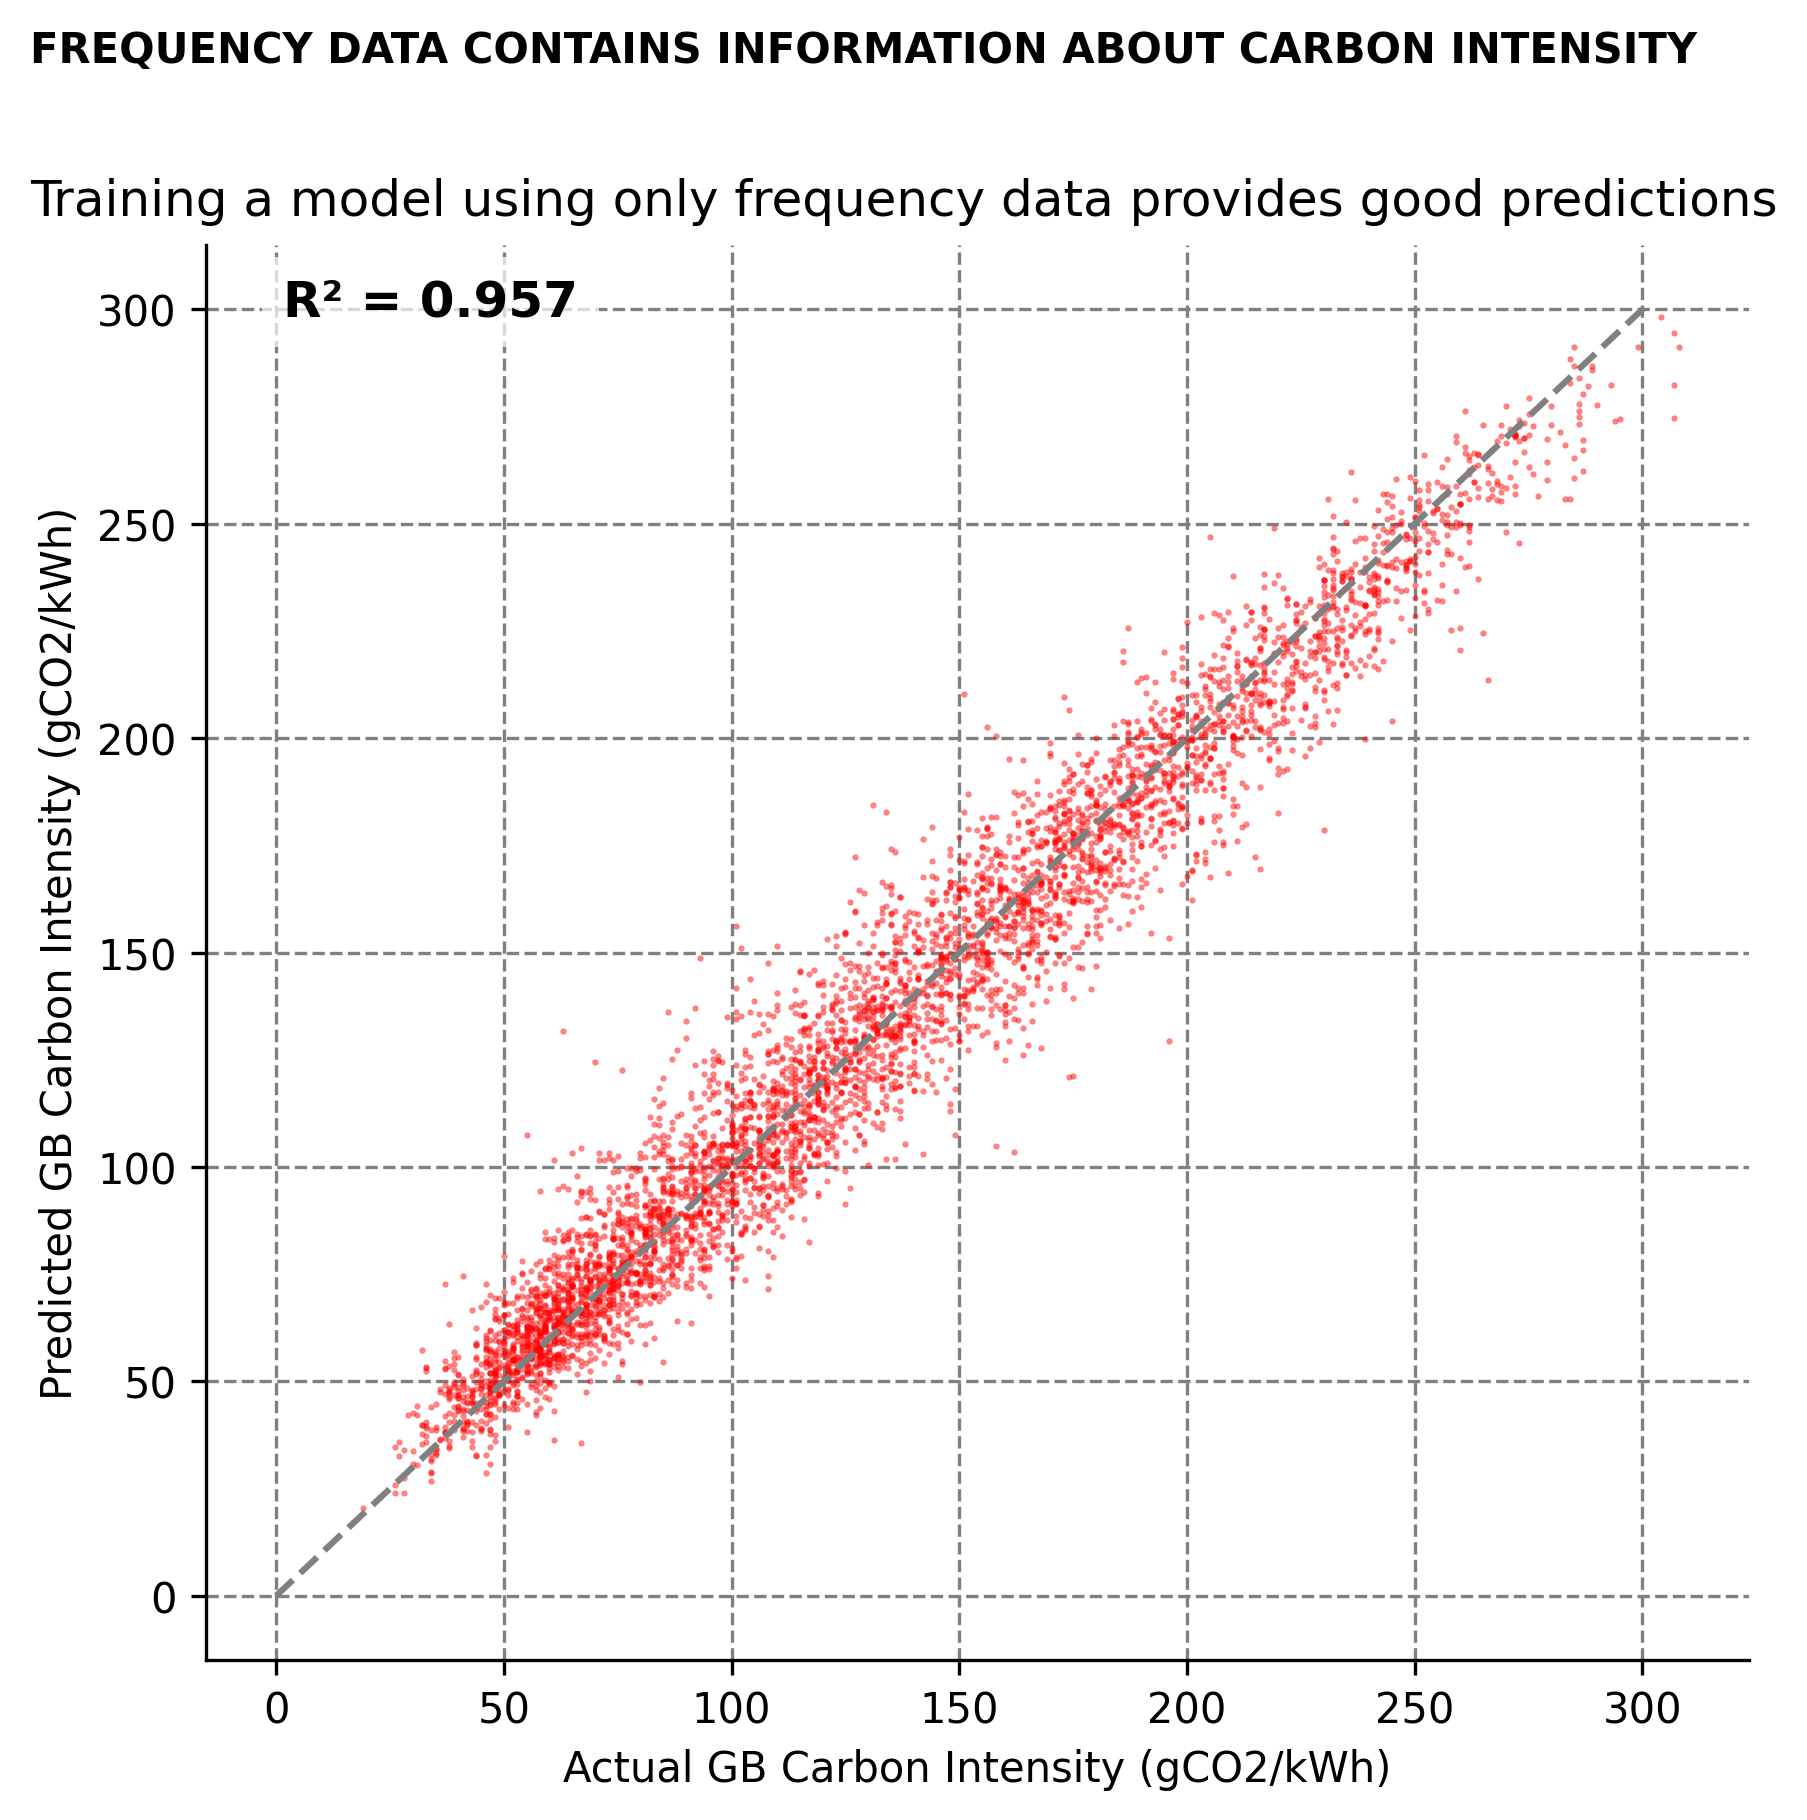
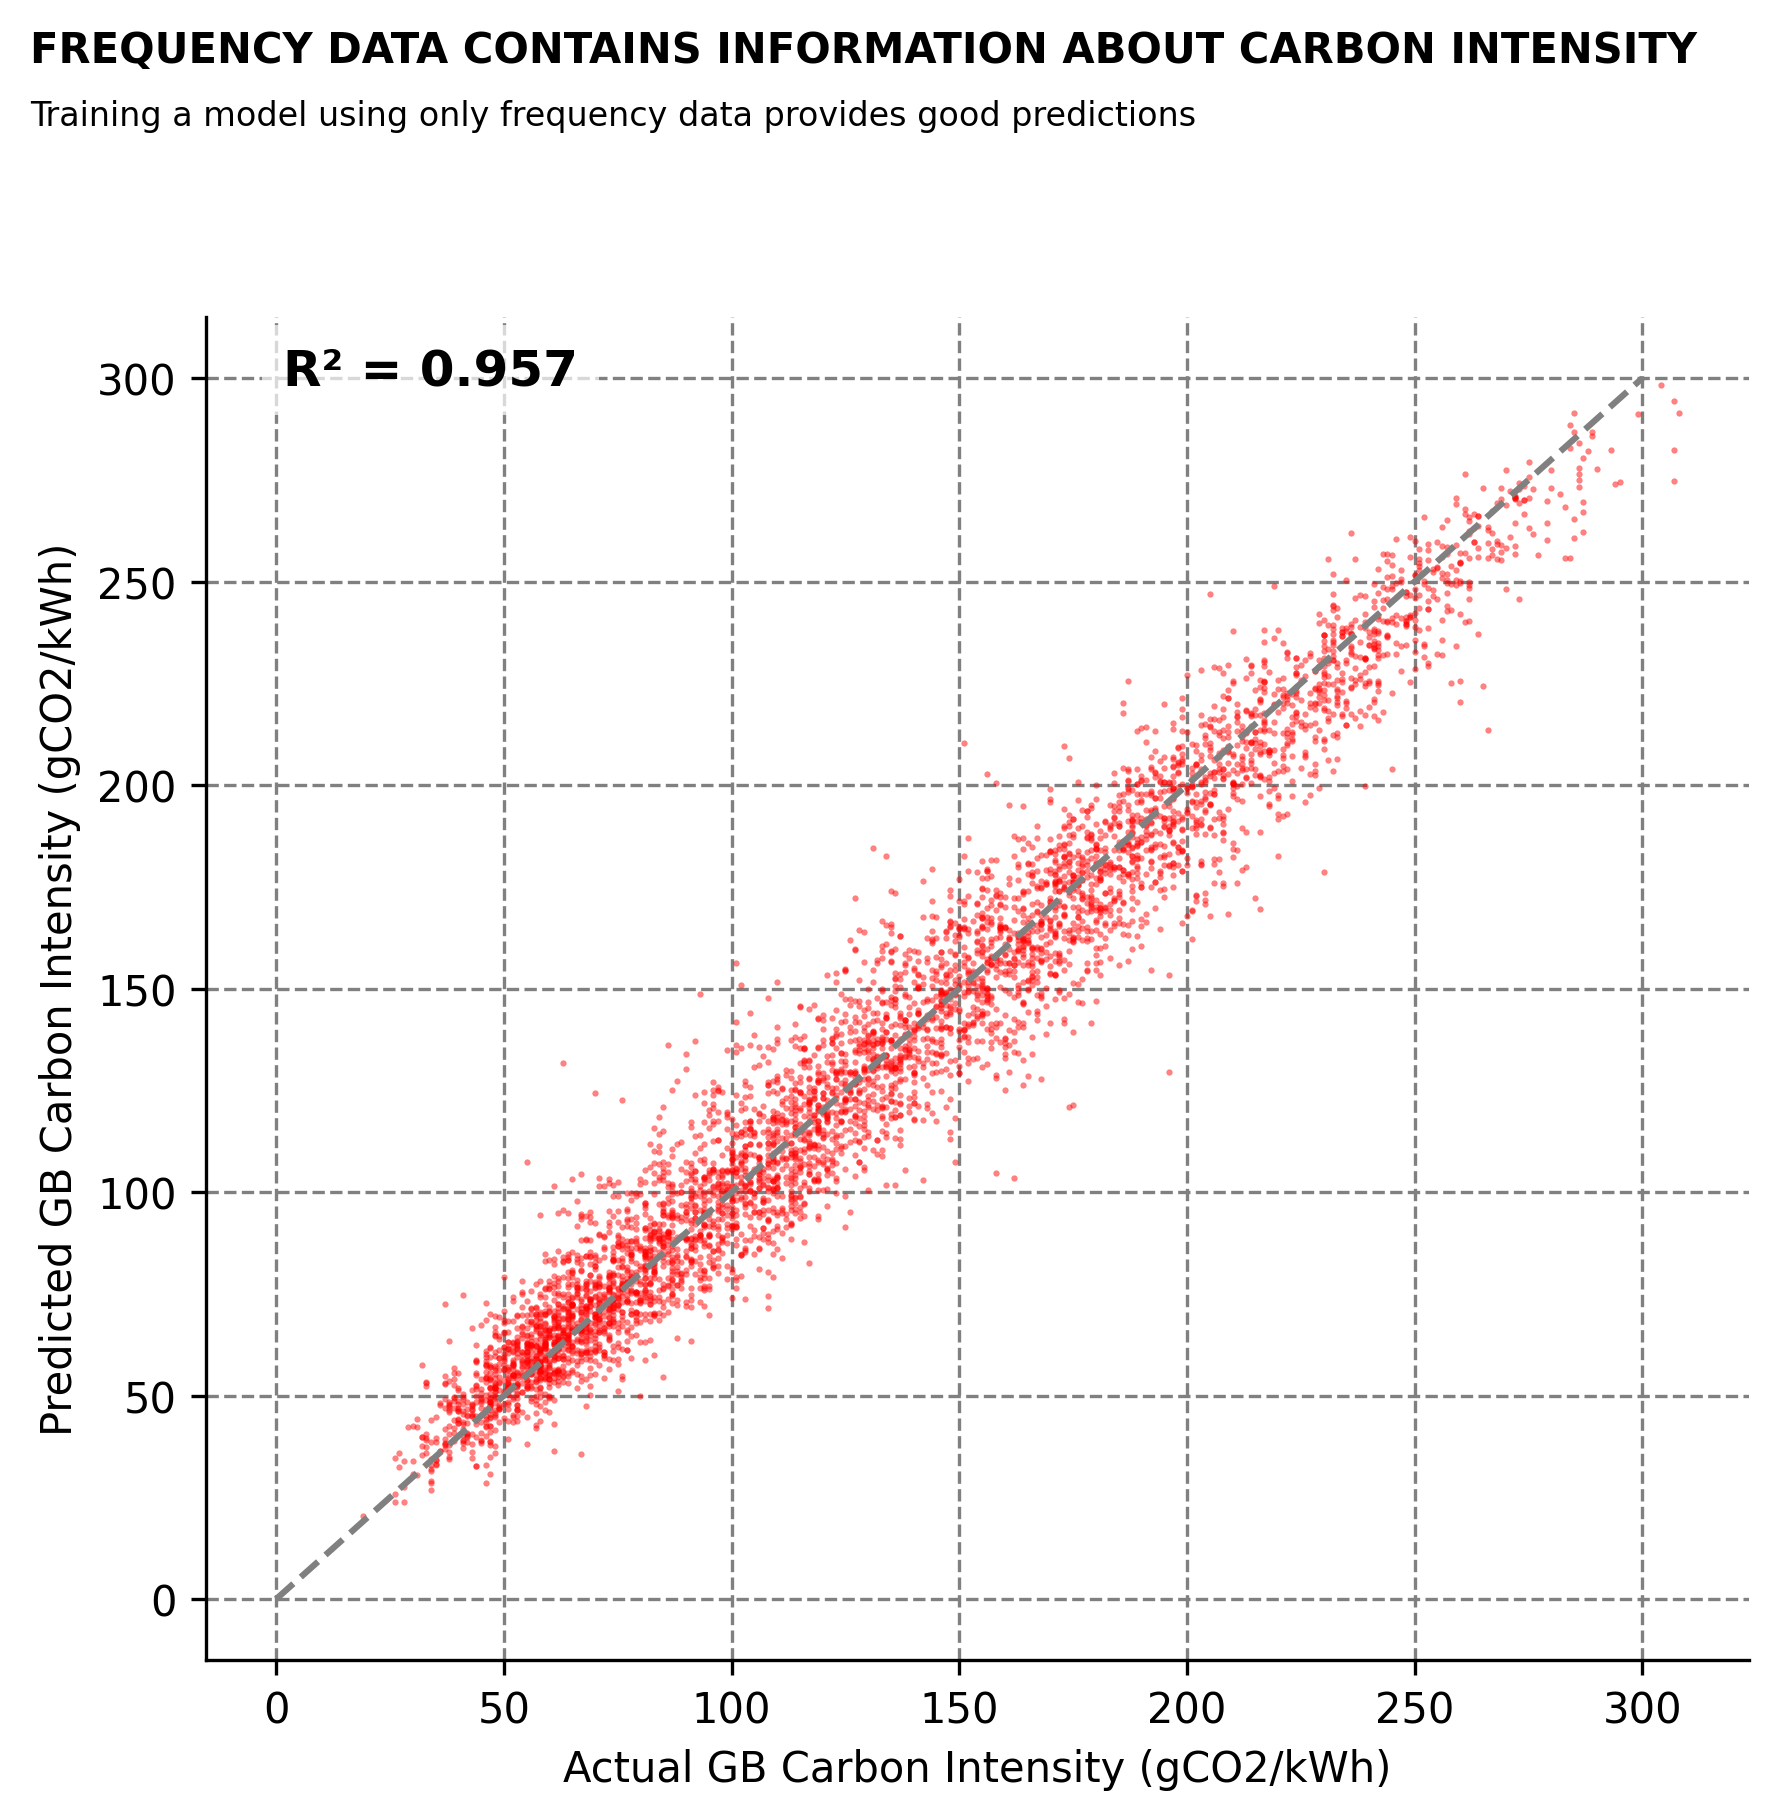
Update scatter plot aesthetics and README; add R-squared value to plot and reorganize content

diff --git a/2_modelling.py b/2_modelling.py
@@ -215,7 +215,7 @@ def plot_scatter_comparison(y_test, y_pred_test):
     ax.set_title("Training a model using only frequency data provides good predictions",
             loc='left',
             x=0.02,
-            y=0.98,
+            y=0.95,
             fontdict={'fontsize': 8},
             transform=fig.transFigure)
 

diff --git a/README.md b/README.md
@@ -4,15 +4,35 @@
 
 # GridSeis
 
+## Summary
 
 ![Diagram](/plots/scatter_xgb.png)
 
 ![Diagram](/plots/validation.png)
 
+## Background: Fourier Transforms
+<div style="display: flex; align-items: center;">
+  <img src="plots/fourier.png" alt="Fourier Transform visualization" width="300">
+  <div style="margin-left: 20px;">
+    <p>A Fourier transform is a mathematical technique that decomposes a signal into its constituent frequencies. It converts a signal from its original domain (often time) into a representation in the frequency domain.</p>
+    <p>In the image, you can see how a complex signal (likely in the time domain) is broken down into its frequency components, revealing the dominant frequencies that make up the original waveform.</p>
+  </div>
+</div>
+
+## Methodology: GB Grid Frequency
+
+
 ![Diagram](/plots/fft_heatmap_january.png)
 
 
 ![Diagram](/plots/fft_heatmap_december.png)
+
+
+
+
+<!-- ![Diagram](/plots/fourier.png) -->
+
+
 
 
 # How to run this code
